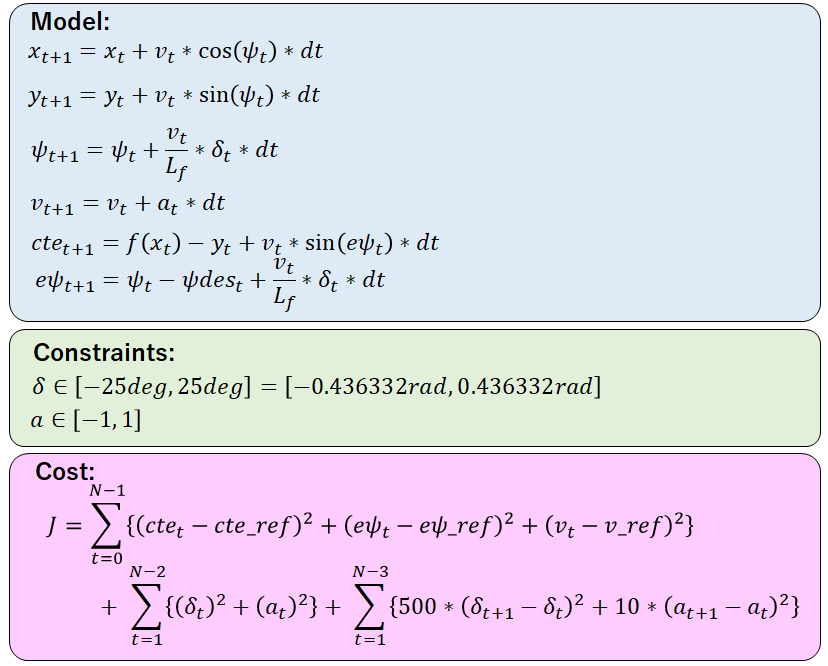
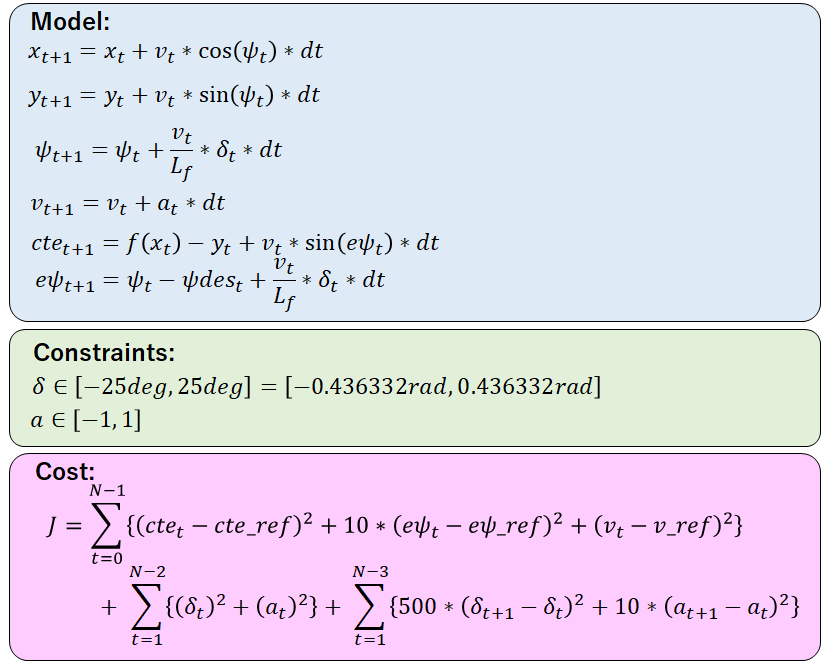
20. Project: Model Predictive Control

diff --git a/term2/20_Project__Model_Predictive_Control/src/MPC.cpp b/term2/20_Project__Model_Predictive_Control/src/MPC.cpp
@@ -9,6 +9,8 @@ using CppAD::AD;
 size_t N = 10;
 double dt = 0.1;
 double ref_v=40.0;
+double c_delta;
+double c_a;
 
 // This value assumes the model presented in the classroom is used.
 //
@@ -35,6 +37,11 @@ void change_ref_v(double v)
 {
   ref_v = v;
 }
+void update_current_control(double cdelta, double ca)
+{
+  c_delta = cdelta;
+  c_a = ca;
+}
 
 class FG_eval {
  public:
@@ -51,21 +58,21 @@ class FG_eval {
     fg[0] = 0;
 
     // The part of the cost based on the reference state.
-    for (int t = 0; t < N; t++) {
-      fg[0] += CppAD::pow(vars[cte_start + t], 2);
-      fg[0] += CppAD::pow(vars[epsi_start + t], 2);
-      fg[0] += CppAD::pow(vars[v_start + t] - ref_v, 2);
+    for (size_t t = 0; t < N; t++) {
+      fg[0] += 1.0 * CppAD::pow(vars[cte_start + t], 2);
+      fg[0] += 10.0 * CppAD::pow(vars[epsi_start + t], 2);
+      fg[0] += 1.0 * CppAD::pow(vars[v_start + t] - ref_v, 2);
     }
 
     // Minimize the use of actuators.
-    for (int t = 0; t < N - 1; t++) {
+    for (size_t t = 0; t < N - 1; t++) {
       //fg[0] += 10 * CppAD::pow(vars[delta_start + t], 2);
-      fg[0] += CppAD::pow(vars[delta_start + t], 2);
-      fg[0] += CppAD::pow(vars[a_start + t], 2);
+      fg[0] += 1.0 * CppAD::pow(vars[delta_start + t], 2);
+      fg[0] += 1.0 * CppAD::pow(vars[a_start + t], 2);
     }
 
     // Minimize the value gap between sequential actuations.
-    for (int t = 0; t < N - 2; t++) {
+    for (size_t t = 0; t < N - 2; t++) {
       //fg[0] += 500.0 * CppAD::pow(vars[delta_start + t + 1] - vars[delta_start + t], 2);
       fg[0] += 500.0 * CppAD::pow(vars[delta_start + t + 1] - vars[delta_start + t], 2);
       fg[0] += 10.0* CppAD::pow(vars[a_start + t + 1] - vars[a_start + t], 2);
@@ -83,7 +90,9 @@ class FG_eval {
     fg[1 + epsi_start] = vars[epsi_start];
 
     // The rest of the constraints
-    for (int t = 1; t < N; t++) {
+    double delay_step = 0.10/dt;
+    size_t delay_count = (delay_step>=1.0 ? (size_t)(round(delay_step)) : 1);
+    for (size_t t = 1; t < N; t++) {
       // The state at time t+1 .
       AD<double> x1 = vars[x_start + t];
       AD<double> y1 = vars[y_start + t];
@@ -103,18 +112,31 @@ class FG_eval {
       // Only consider the actuation at time t.
       AD<double> delta0 = vars[delta_start + t - 1];
       AD<double> a0 = vars[a_start + t - 1];
+      /*
+      AD<double> delta0;
+      AD<double> a0;
+      if(t - delay_count >= 0){
+        // Consider the actuation at 100msec before.
+        delta0 = vars[delta_start + t - delay_count];
+        a0 = vars[a_start + t - delay_count];
+      }
+      else{
+        // Consider the actuation at the current state.
+        delta0 = c_delta;
+        a0 = c_a;
+      }*/
 
       AD<double> f0 = coeffs[0] + coeffs[1] * x0;
       AD<double> psides0 = CppAD::atan(coeffs[1]);
 
       fg[1 + x_start + t] = x1 - (x0 + v0 * CppAD::cos(psi0) * dt);
       fg[1 + y_start + t] = y1 - (y0 + v0 * CppAD::sin(psi0) * dt);
-      fg[1 + psi_start + t] = psi1 - (psi0 + v0 * delta0 / Lf * dt);
+      fg[1 + psi_start + t] = psi1 - (psi0 - v0 * delta0 / Lf * dt);
       fg[1 + v_start + t] = v1 - (v0 + a0 * dt);
       fg[1 + cte_start + t] =
           cte1 - ((f0 - y0) + (v0 * CppAD::sin(epsi0) * dt));
       fg[1 + epsi_start + t] =
-          epsi1 - ((psi0 - psides0) + v0 * delta0 / Lf * dt);
+          epsi1 - ((psi0 - psides0) - v0 * delta0 / Lf * dt);
     }
   }
 };
@@ -125,9 +147,10 @@ class FG_eval {
 MPC::MPC() {}
 MPC::~MPC() {}
 
-vector<double> MPC::Solve(Eigen::VectorXd state, Eigen::VectorXd coeffs) {
+// vector<double> MPC::Solve(Eigen::VectorXd state, Eigen::VectorXd coeffs) {
+vector<double> MPC::Solve(Eigen::VectorXd state, Eigen::VectorXd coeffs, vector<double> &xs, vector<double> &ys) {
   bool ok = true;
-  size_t i;
+  // size_t i;
   typedef CPPAD_TESTVECTOR(double) Dvector;
 
   // TODO: Set the number of model variables (includes both states and inputs).
@@ -144,7 +167,7 @@ vector<double> MPC::Solve(Eigen::VectorXd state, Eigen::VectorXd coeffs) {
   // Initial value of the independent variables.
   // SHOULD BE 0 besides initial state.
   Dvector vars(n_vars);
-  for (int i = 0; i < n_vars; i++) {
+  for (size_t i = 0; i < n_vars; i++) {
     vars[i] = 0;
   }
   double x = state[0];
@@ -164,18 +187,18 @@ vector<double> MPC::Solve(Eigen::VectorXd state, Eigen::VectorXd coeffs) {
   Dvector vars_upperbound(n_vars);
   // TODO: Set lower and upper limits for variables.
   // Set all non-actuators upper and lowerlimits
-  for (int i = 0; i < delta_start; i++) {
+  for (size_t i = 0; i < delta_start; i++) {
     vars_lowerbound[i] = -1.0e19;
     vars_upperbound[i] = 1.0e19;
   }
   // The upper and lower limits of delta are set to -25 and 25
   // degrees (values in radians).
-  for (int i = delta_start; i < a_start; i++) {
+  for (size_t i = delta_start; i < a_start; i++) {
     vars_lowerbound[i] = -0.436332;
     vars_upperbound[i] = 0.436332;
   }
   // Acceleration/decceleration upper and lower limits.
-  for (int i = a_start; i < n_vars; i++) {
+  for (size_t i = a_start; i < n_vars; i++) {
     vars_lowerbound[i] = -1.0;
     vars_upperbound[i] = 1.0;
   }
@@ -184,7 +207,7 @@ vector<double> MPC::Solve(Eigen::VectorXd state, Eigen::VectorXd coeffs) {
   // Should be 0 besides initial state.
   Dvector constraints_lowerbound(n_constraints);
   Dvector constraints_upperbound(n_constraints);
-  for (int i = 0; i < n_constraints; i++) {
+  for (size_t i = 0; i < n_constraints; i++) {
     constraints_lowerbound[i] = 0;
     constraints_upperbound[i] = 0;
   }
@@ -243,6 +266,14 @@ vector<double> MPC::Solve(Eigen::VectorXd state, Eigen::VectorXd coeffs) {
   //
   // {...} is shorthand for creating a vector, so auto x1 = {1.0,2.0}
   // creates a 2 element double vector.
+  
+  xs.clear();
+  ys.clear();
+  for(size_t i=1; i<N; i++){
+    xs.push_back(solution.x[x_start + i]);
+    ys.push_back(solution.x[y_start + i]);
+  }
+
   return {solution.x[x_start + 1],   solution.x[y_start + 1],
           solution.x[psi_start + 1], solution.x[v_start + 1],
           solution.x[cte_start + 1], solution.x[epsi_start + 1],

diff --git a/term2/20_Project__Model_Predictive_Control/src/main.cpp b/term2/20_Project__Model_Predictive_Control/src/main.cpp
@@ -114,6 +114,8 @@ int main() {
           double psi = j[1]["psi"];
           double v = j[1]["speed"];
 
+          update_current_control(j[1]["steering_angle"], j[1]["throttle"]);
+
           /*
           * TODO: Calculate steering angle and throttle using MPC.
           *
@@ -122,8 +124,8 @@ int main() {
           */
           Eigen::VectorXd ptsx_car_coodinate(ptsx.size());
           Eigen::VectorXd ptsy_car_coodinate(ptsy.size());
-          // Converting to car coodinate
-          for(size_t i=0; i<ptsx.size(); i++){ //TODO. To be modified
+          // Converting to vehicle coodinate
+          for(size_t i=0; i<ptsx.size(); i++){
             ptsx_car_coodinate[i] =  (ptsx[i]-px)*cos(psi) + (ptsy[i]-py)*sin(psi);
             ptsy_car_coodinate[i] = -(ptsx[i]-px)*sin(psi) + (ptsy[i]-py)*cos(psi);
           }
@@ -133,25 +135,26 @@ int main() {
           double epsi = 0 - atan(coeffs[1]);
           //double epsi = psi - atan(coeffs[1]);
           cout << "cte= "<<cte<<",\tepsi="<<epsi<<endl;
-          double max_v = 40.0;
+          /*double max_v = 40.0;
           double min_v = 30.0;
-          // if(cte>1.5){change_ref_v(min_v);}
-          // else{change_ref_v(max_v);}
+          if(cte>1.5){change_ref_v(min_v);}
+          else{change_ref_v(max_v);}*/
 
           Eigen::VectorXd state(6);
           state << 0, 0, 0, v, cte, epsi;
 
-          std::vector<double> x_vals = {state[0]};
-          std::vector<double> y_vals = {state[1]};
           double steer_value;
           double throttle_value;
 
-          mytime.tick();
-          auto vars = mpc.Solve(state, coeffs);
-          x_vals.push_back(vars[0]);
-          y_vals.push_back(vars[1]);
+          //Display the MPC predicted trajectory 
+          vector<double> mpc_x_vals; //TODO?
+          vector<double> mpc_y_vals; //TODO?
 
-          steer_value = vars[6] * (-1.0);
+          mytime.tick();
+          // auto vars = mpc.Solve(state, coeffs);
+          auto vars = mpc.Solve(state, coeffs, mpc_x_vals, mpc_y_vals);
+
+          steer_value = vars[6];
           throttle_value = vars[7];
           //if(cte>1.3 && throttle_value>0.0) throttle_value=0;
 
@@ -165,9 +168,6 @@ int main() {
           msgJson["steering_angle"] = steer_value/deg2rad(25);
           msgJson["throttle"] = throttle_value;
 
-          //Display the MPC predicted trajectory 
-          vector<double> mpc_x_vals = x_vals; //TODO?
-          vector<double> mpc_y_vals = y_vals; //TODO?
 
           //.. add (x,y) points to list here, points are in reference to the vehicle's coordinate system
           // the points in the simulator are connected by a Green line

diff --git a/term2/20_Project__Model_Predictive_Control/src/MPC.h b/term2/20_Project__Model_Predictive_Control/src/MPC.h
@@ -7,6 +7,7 @@
 using namespace std;
 
 void change_ref_v(double v);
+void update_current_control(double cdelta, double ca);
 
 class MPC {
  public:
@@ -16,7 +17,8 @@ class MPC {
 
   // Solve the model given an initial state and polynomial coefficients.
   // Return the first actuatotions.
-  vector<double> Solve(Eigen::VectorXd state, Eigen::VectorXd coeffs);
+  // vector<double> Solve(Eigen::VectorXd state, Eigen::VectorXd coeffs);
+  vector<double> Solve(Eigen::VectorXd state, Eigen::VectorXd coeffs, vector<double> &xs, vector<double> &ys);
 };
 
 #endif /* MPC_H */

diff --git a/term2/20_Project__Model_Predictive_Control/README.md b/term2/20_Project__Model_Predictive_Control/README.md
@@ -3,7 +3,7 @@
 ## 1. Files and environments
 ### 1-1. List of files
 * [src/\*.cpp, src/\*.h](./src/) : source codes of this project.
-* [YouTube video](https://youtu.be/QNcd7DGerJA): Screen shot video of simulator.
+* [YouTube video](https://youtu.be/Sg6Ga40LST8): Screen shot video of simulator.
 * [Model](./mymodel.png) : My model for this project.
 
 ### 1-2. Environment
@@ -26,25 +26,28 @@ My code was successfully compiled without errors.
 ---
 ### 2-2. Implementation
 #### 2-2-1. CRITERIA: The Model. Student describes their model in detail. This includes the state, actuators and update equations.
-My model is based on the following equations:
-![mymodel.png][mymodel.png]
-I used a vehicle coordinate system instead of world coordinate system to fit the model.
+My model is based on the following equations. 
+![mymodel.png][mymodel.png]  
+I used a vehicle coordinate system instead of world coordinate system to fit the model so that 3rd order polynomial is a good approximation of trajectory. Because the vehicle coordinate system is refreshed at every time step based on the current vehicle location, current egovehicle position (x, y, psi) are always fixed to zero.
 
 #### 2-2-2. CRITERIA: Timestep Length and Elapsed Duration (N & dt). Student discusses the reasoning behind the chosen N (timestep length) and dt (elapsed duration between timesteps) values. Additionally the student details the previous values tried.
-N and dt are configured in MPC.cpp as follows:
 ```cpp
 size_t N = 10;
 double dt = 0.1;
 ```
+I choosed N=10 and dt=0.1sec because of the following reasons.
+- I choosed dt=0.1s because the latency of controllers is 100msec (=0.1s), and I hypothesized that it doesn't make positive effect if I choose finer resolution of dt. I tested dt=0.05s and 0.01s, and the performance became worse as I expected.
+- I tried N=20 larger value of N than 20, however the it didn't work because the computing latency of  `MPC::Solve()` became larger than 100msec.
+
 
 #### 2-2-3. CRITERIA: Polynomial Fitting and MPC Preprocessing. A polynomial is fitted to waypoints. If the student preprocesses waypoints, the vehicle state, and/or actuators prior to the MPC procedure it is described.
 in main.cpp.
-Waypoints are preprocessed to transform from world coodinate system to vehicle coodinate system. Then the waypoints was fitted 3rd order polynomial.
+Waypoints are pre-processed to transform from world coodinate system to vehicle coodinate system so that the waypoints was fitted 3rd order polynomial well.
 ```cpp
 Eigen::VectorXd ptsx_car_coodinate(ptsx.size());
 Eigen::VectorXd ptsy_car_coodinate(ptsy.size());
-// Converting to car coodinate
-for(size_t i=0; i<ptsx.size(); i++){ //TODO. To be modified
+// Converting to vehicle coodinate
+for(size_t i=0; i<ptsx.size(); i++){
   ptsx_car_coodinate[i] =  (ptsx[i]-px)*cos(psi) + (ptsy[i]-py)*sin(psi);
   ptsy_car_coodinate[i] = -(ptsx[i]-px)*sin(psi) + (ptsy[i]-py)*cos(psi);
 }
@@ -52,8 +55,9 @@ auto coeffs = polyfit(ptsx_car_coodinate, ptsy_car_coodinate, 3);
 ```
 
 #### 2-2-4. CRITERIA: Model Predictive Control with Latency. The student implements Model Predictive Control that handles a 100 millisecond latency. Student provides details on how they deal with latency.
-I measured the latency of the Model Predictive Control modules by using the following timer class.
-As a result, the latencies were distributing almost between 14msec and 45msec, and it was under 100msec upper bound.
+
+- I choosed dt=0.1s so that the discrete time step corresponds to the controller latency which is equal to 100ms.
+- I measured the latency of the Model Predictive Control modules by using the following timer class. As a result, the latencies were distributing around 10msec and 30msec, and it was under 100msec upper bound.
 ```cpp
 class MyTime {
   std::chrono::system_clock::time_point start_time;
@@ -80,5 +84,5 @@ public:
 ---
 ### 2-3. Simulation
 #### 2-3-1. CRITERIA: The vehicle must successfully drive a lap around the track.
-The vehicle successfully drove a lap around the track. Please refer to [YouTube video](https://youtu.be/QNcd7DGerJA).
+The vehicle successfully drove a lap around the track. Please refer to [YouTube video](https://youtu.be/Sg6Ga40LST8).
 
